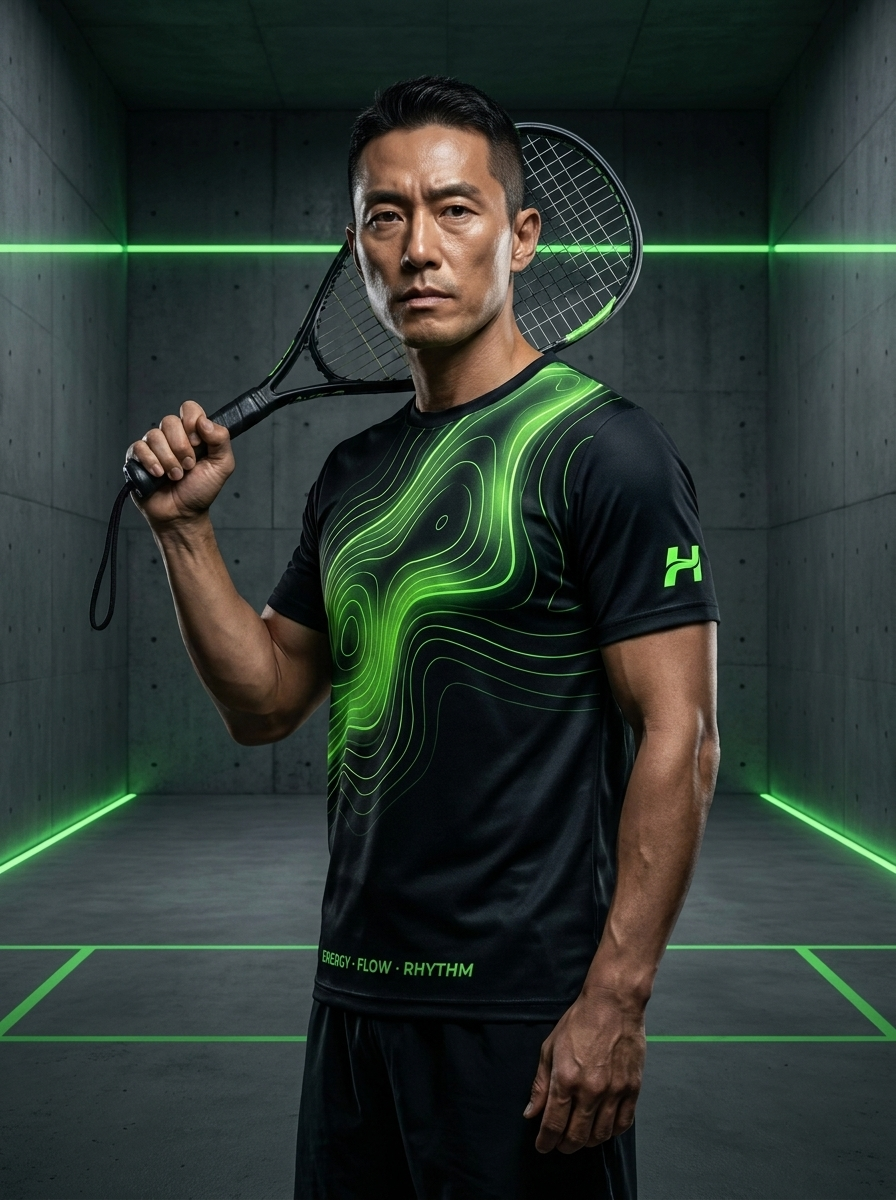
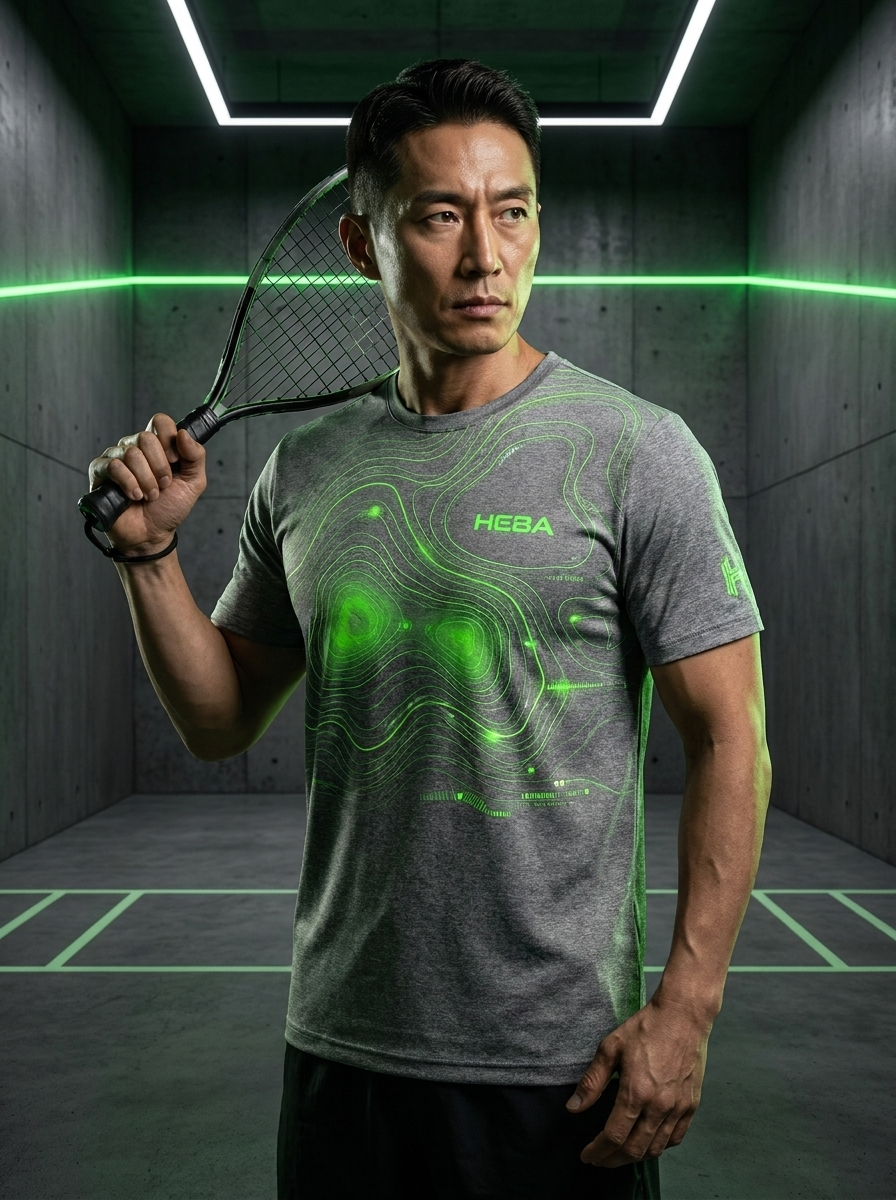
feat(heba-club): Supabase 실시간 집계 + B-2 콘크리트 그레이 메인
- 각 디자인 카드 하단에 총 투표수 카운트 표시 (실시간 30초 갱신)
- 한 사람=한 표 (브라우저당 voter_id 기반 upsert)
- 같은 디자인 재클릭=해제, 다른 디자인 클릭=선택 변경
- B-2 TOPOGRAPHY를 콘크리트 그레이 메인으로 재설계 + 모델샷 갱신

diff --git a/heba-club/index.html b/heba-club/index.html
@@ -119,6 +119,58 @@
     color: #666;
     letter-spacing: 1px;
   }
+  .vote-summary {
+    background: linear-gradient(135deg, rgba(212,175,55,0.1), rgba(212,175,55,0.02));
+    border-top: 1px solid rgba(212,175,55,0.2);
+    padding: 18px 36px;
+    display: flex;
+    align-items: center;
+    justify-content: space-between;
+    gap: 20px;
+    flex-wrap: wrap;
+  }
+  .vote-summary .left {
+    display: flex;
+    align-items: baseline;
+    gap: 14px;
+  }
+  .vote-summary .vote-count-big {
+    font-size: 32px;
+    font-weight: 200;
+    color: #d4af37;
+    letter-spacing: 1px;
+    font-variant-numeric: tabular-nums;
+  }
+  .vote-summary .vote-count-label {
+    font-size: 11px;
+    color: #888;
+    letter-spacing: 2px;
+    text-transform: uppercase;
+  }
+  .vote-summary .pick-btn {
+    background: transparent;
+    color: #d4af37;
+    border: 1px solid #d4af37;
+    padding: 10px 22px;
+    border-radius: 100px;
+    font-weight: 600;
+    cursor: pointer;
+    font-size: 12px;
+    letter-spacing: 1.5px;
+    transition: all 0.2s;
+    display: inline-flex;
+    align-items: center;
+    gap: 8px;
+  }
+  .vote-summary .pick-btn:hover {
+    background: rgba(212,175,55,0.15);
+  }
+  .vote-summary .pick-btn.selected {
+    background: #d4af37;
+    color: #0a0a0a;
+    box-shadow: 0 0 16px rgba(212,175,55,0.3);
+  }
+  .vote-summary .pick-btn.selected:hover { background: #b8860b; }
   .concept-image {
     width: 100%;
     aspect-ratio: 3/2;
@@ -379,6 +431,15 @@
         <img src="B1_MODEL_COURT_MAP.png" alt="COURT MAP 착용샷" loading="lazy">
       </div>
     </div>
+    <div class="vote-summary">
+      <div class="left">
+        <span class="vote-count-big" id="count-B1">0</span>
+        <span class="vote-count-label">총 투표 수</span>
+      </div>
+      <button class="pick-btn" data-key="B1" onclick="selectChoice('B1')">
+        <span>이 디자인 선택</span>
+      </button>
+    </div>
     <div class="concept-meta">
       <div class="col">
         <h3>Design</h3>
@@ -409,7 +470,7 @@
         <h2>COURT TOPOGRAPHY</h2>
         <div class="tagline">"READ THE GAME."</div>
       </div>
-      <div class="right">3 COLORWAYS · BLACK NEON / ICE / CONCRETE</div>
+      <div class="right">3 COLORWAYS · CONCRETE GRAY (메인) / BLACK NEON / ICE WHITE</div>
     </div>
     <div class="lookbook-row">
       <div class="lookbook-board" onclick="openLightbox('B2_COURT_TOPOGRAPHY.png')">
@@ -419,10 +480,19 @@
         <img src="B2_MODEL_TOPOGRAPHY.png" alt="TOPOGRAPHY 착용샷" loading="lazy">
       </div>
     </div>
+    <div class="vote-summary">
+      <div class="left">
+        <span class="vote-count-big" id="count-B2">0</span>
+        <span class="vote-count-label">총 투표 수</span>
+      </div>
+      <button class="pick-btn" data-key="B2" onclick="selectChoice('B2')">
+        <span>이 디자인 선택</span>
+      </button>
+    </div>
     <div class="concept-meta">
       <div class="col">
         <h3>Design</h3>
-        <p>코트 도면을 등고선/히트맵으로 추상화. 랠리의 에너지 흐름을 시각화. 스포츠 데이터 무드의 미래적 라인워크.</p>
+        <p>콘크리트 그레이 헤더에 네온 그린 등고선/히트맵 추상화. 랠리의 에너지 흐름을 시각화. 스포츠 데이터 무드의 미래적 라인워크.</p>
       </div>
       <div class="col">
         <h3>Marketing Hook</h3>
@@ -430,12 +500,12 @@
       </div>
       <div class="col">
         <h3>Specs</h3>
-        <p>블랙 + 네온그린 (메인) / 아이스 화이트 / 콘크리트 그레이<br>승화 전사 + 네온 포일</p>
+        <p>콘크리트 그레이 + 네온그린 (메인) / 블랙 네온 / 아이스 화이트<br>승화 전사 + 네온 포일</p>
         <div class="colors">
-          <div class="color-chip" style="background:#000"></div>
+          <div class="color-chip" style="background:#7a7a7a"></div>
           <div class="color-chip" style="background:#39ff14"></div>
+          <div class="color-chip" style="background:#000"></div>
           <div class="color-chip" style="background:#f0f0f0"></div>
-          <div class="color-chip" style="background:#666"></div>
         </div>
       </div>
     </div>
@@ -458,6 +528,15 @@
       <div class="lookbook-model" onclick="openLightbox('C_MODEL_HEBE_GODDESS.png')">
         <img src="C_MODEL_HEBE_GODDESS.png" alt="HEBE GODDESS 착용샷" loading="lazy">
       </div>
+    </div>
+    <div class="vote-summary">
+      <div class="left">
+        <span class="vote-count-big" id="count-C">0</span>
+        <span class="vote-count-label">총 투표 수</span>
+      </div>
+      <button class="pick-btn" data-key="C" onclick="selectChoice('C')">
+        <span>이 디자인 선택</span>
+      </button>
     </div>
     <div class="concept-meta">
       <div class="col">
@@ -483,23 +562,13 @@
   </div>
 
   <div class="vote-section">
-    <h2>나의 선택</h2>
+    <h2>📊 실시간 집계</h2>
     <p>
-      마음에 드는 컨셉을 한 번 클릭해주세요. 다른 컨셉을 다시 누르면 선택이 바뀝니다.<br>
-      같은 컨셉을 한 번 더 누르면 선택이 해제됩니다.
+      각 디자인 카드에서 "이 디자인 선택" 버튼을 눌러주세요.<br>
+      한 사람당 한 번. 다시 누르면 해제, 다른 디자인을 누르면 선택이 변경됩니다.<br>
+      <span style="color:#888; font-size:12px;">실시간으로 13명 모두의 투표가 집계됩니다.</span>
     </p>
-    <div class="vote-buttons">
-      <button class="vote-btn" data-key="B1" onclick="selectChoice('B1')">
-        <span class="vote-mark"></span> B-1 COURT MAP
-      </button>
-      <button class="vote-btn" data-key="B2" onclick="selectChoice('B2')">
-        <span class="vote-mark"></span> B-2 TOPOGRAPHY
-      </button>
-      <button class="vote-btn" data-key="C" onclick="selectChoice('C')">
-        <span class="vote-mark"></span> C HEBE GODDESS
-      </button>
-    </div>
-    <div class="vote-status" id="voteStatus">아직 선택하지 않았습니다.</div>
+    <div id="totalVotes" style="margin-top:16px; color:#aaa; font-size:13px;">로딩 중...</div>
   </div>
 
   <div class="footer">
@@ -523,45 +592,105 @@
     if (e) e.stopPropagation();
     document.getElementById('lightbox').classList.remove('active');
   }
-  const CHOICE_KEY = 'heba_v4_my_choice';
-  const LABELS = {
-    'B1': 'B-1 COURT MAP',
-    'B2': 'B-2 TOPOGRAPHY',
-    'C': 'C HEBE GODDESS'
-  };
+  // ===== Supabase 실시간 투표 시스템 =====
+  const SUPABASE_URL = 'https://zxqwmpcirkmnwkywtiqs.supabase.co';
+  const SUPABASE_KEY = 'eyJhbGciOiJIUzI1NiIsInR5cCI6IkpXVCJ9.eyJpc3MiOiJzdXBhYmFzZSIsInJlZiI6Inp4cXdtcGNpcmttbndreXd0aXFzIiwicm9sZSI6ImFub24iLCJpYXQiOjE3NzcwNDkyNTMsImV4cCI6MjA5MjYyNTI1M30.0SRfFlW_TVXhbcO-Amp-8Y5zWj1JjDeXEZ1tDQyWZsI';
+  const VOTER_KEY = 'heba_v5_voter_id';
+  const CHOICE_KEY = 'heba_v5_my_choice';
+  const LABELS = { 'B1': 'B-1 COURT MAP', 'B2': 'B-2 TOPOGRAPHY', 'C': 'C HEBE GODDESS' };
 
-  function renderChoice() {
-    const current = localStorage.getItem(CHOICE_KEY);
-    document.querySelectorAll('.vote-btn').forEach(btn => {
+  // voter_id 발급 (브라우저당 고유)
+  function getVoterId() {
+    let id = localStorage.getItem(VOTER_KEY);
+    if (!id) {
+      id = 'v_' + Date.now().toString(36) + '_' + Math.random().toString(36).slice(2, 10);
+      localStorage.setItem(VOTER_KEY, id);
+    }
+    return id;
+  }
+
+  async function api(path, opts = {}) {
+    const headers = {
+      'apikey': SUPABASE_KEY,
+      'Authorization': 'Bearer ' + SUPABASE_KEY,
+      'Content-Type': 'application/json',
+      ...(opts.headers || {})
+    };
+    const res = await fetch(SUPABASE_URL + '/rest/v1/' + path, { ...opts, headers });
+    if (!res.ok) throw new Error('API error: ' + res.status);
+    const text = await res.text();
+    return text ? JSON.parse(text) : null;
+  }
+
+  async function fetchCounts() {
+    const rows = await api('heba_votes?select=choice');
+    const counts = { B1: 0, B2: 0, C: 0 };
+    rows.forEach(r => { if (counts[r.choice] !== undefined) counts[r.choice]++; });
+    return { counts, total: rows.length };
+  }
+
+  function renderUI(counts, total, currentChoice) {
+    ['B1','B2','C'].forEach(k => {
+      const el = document.getElementById('count-' + k);
+      if (el) el.textContent = counts[k] || 0;
+    });
+    document.querySelectorAll('.pick-btn').forEach(btn => {
       const k = btn.dataset.key;
-      const mark = btn.querySelector('.vote-mark');
-      if (k === current) {
+      const span = btn.querySelector('span');
+      if (k === currentChoice) {
         btn.classList.add('selected');
-        mark.textContent = '✓';
+        span.textContent = '✓ 선택됨 (다시 누르면 해제)';
       } else {
         btn.classList.remove('selected');
-        mark.textContent = '';
+        span.textContent = '이 디자인 선택';
       }
     });
-    const status = document.getElementById('voteStatus');
-    if (current && LABELS[current]) {
-      status.innerHTML = '✓ <strong>' + LABELS[current] + '</strong> 선택됨';
-    } else {
-      status.textContent = '아직 선택하지 않았습니다.';
+    const totalEl = document.getElementById('totalVotes');
+    if (totalEl) {
+      const myChoiceTxt = currentChoice ? '내 선택: <strong style="color:#d4af37">' + LABELS[currentChoice] + '</strong>' : '내 선택: 없음';
+      totalEl.innerHTML = '총 ' + total + '명 투표 · ' + myChoiceTxt;
     }
   }
 
-  function selectChoice(k) {
+  async function refreshAll() {
+    try {
+      const { counts, total } = await fetchCounts();
+      const myChoice = localStorage.getItem(CHOICE_KEY) || null;
+      renderUI(counts, total, myChoice);
+    } catch (e) {
+      console.error(e);
+      const totalEl = document.getElementById('totalVotes');
+      if (totalEl) totalEl.textContent = '집계 로딩 실패. 새로고침 해보세요.';
+    }
+  }
+
+  async function selectChoice(k) {
+    const voterId = getVoterId();
     const current = localStorage.getItem(CHOICE_KEY);
-    if (current === k) {
-      localStorage.removeItem(CHOICE_KEY);
-    } else {
-      localStorage.setItem(CHOICE_KEY, k);
+    try {
+      if (current === k) {
+        // 같은 선택 → 해제 (delete)
+        await api('heba_votes?voter_id=eq.' + encodeURIComponent(voterId), { method: 'DELETE' });
+        localStorage.removeItem(CHOICE_KEY);
+      } else {
+        // 다른 선택 또는 신규 → upsert
+        await api('heba_votes', {
+          method: 'POST',
+          headers: { 'Prefer': 'resolution=merge-duplicates' },
+          body: JSON.stringify({ voter_id: voterId, choice: k, updated_at: new Date().toISOString() })
+        });
+        localStorage.setItem(CHOICE_KEY, k);
+      }
+      await refreshAll();
+    } catch (e) {
+      console.error(e);
+      alert('투표 처리 중 오류가 발생했습니다. 다시 시도해주세요.');
     }
-    renderChoice();
   }
 
-  renderChoice();
+  // 초기 로드 + 30초마다 갱신
+  refreshAll();
+  setInterval(refreshAll, 30000);
 </script>
 </body>
 </html>
